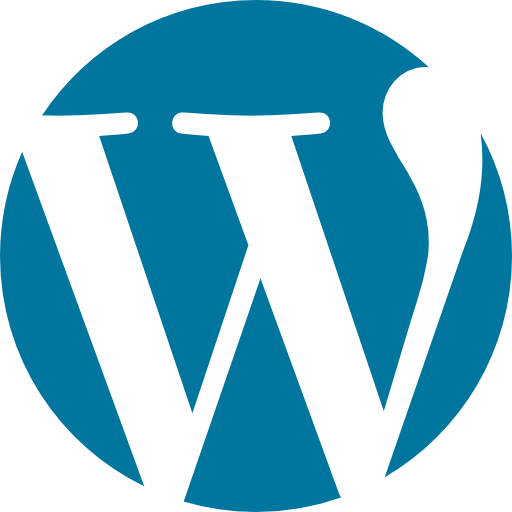
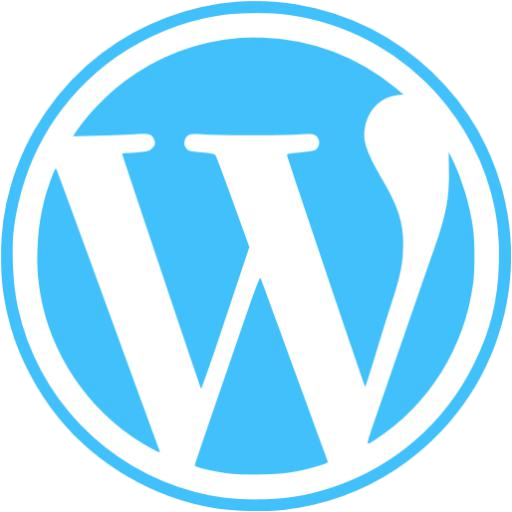
Feito a parte projetos, iniciado o link wordpress

diff --git a/index.html b/index.html
@@ -228,13 +228,20 @@
 <section class="fourth-section">
     <div class="position-article">
         <article>
-            <div>
-                <h3 class="white-font">Projetos</h3>
-                <h4 class="white-font">Analise os meus projetos no GitHub!</h4>
-                <p class="white-font">Acesse os meus repositórios armazenados na nuvem e veja os projetos mais recentes.</p>
+            <div class="white-font">
+                <h3>Projetos</h3>
+                <h4>Analise os meus projetos no GitHub!</h4>
+                <p class="container">Acesse os meus repositórios armazenados na nuvem e veja os projetos mais recentes.</p>
             </div>
             <div class="position-personal">
               <a href="https://github.com/iranmuniz" target="_blank"><img class="github-project" src="../curriculum/assets/img/github.png" alt="GitHub Iran Muniz"></a>
+            </div>
+            <div class="content-project">
+                <h4>Também utilizo WordPress!</h4>
+                <p>Conheça o blog Web Padawan, feito para iniciantes em programação.</p>
+            </div>
+            <div class="position-personal">
+                <a href="http://webpadawan.home.blog" target="_blank"><img class="wordpress-project" src="../curriculum/assets/img/wordpress.png" alt="GitHub Iran Muniz"></a>
             </div>
         </article>
     </div>

diff --git a/assets/css/style.css b/assets/css/style.css
@@ -197,11 +197,34 @@ body {
 .fourth-section {
     background-color: rebeccapurple;
     padding: 150px 0px;
-    border-radius: 0px 600px 0 0;
+    border-radius: 0px 600px 600px 0;
+}
+
+.content-project {
+    color: white;
+    margin: 50px 0px 0px;
 }
 
 .github-project {
     height: 200px;
+}
+
+.github-project:hover {
+    -moz-transform: scale(1.1);
+    -webkit-transform: scale(0.1);
+    transform: scale(0.9);
+    transition: 1s;
+}
+
+.wordpress-project {
+    height: 200px;
+}
+
+.wordpress-project:hover {
+    -moz-transform: scale(1.1);
+    -webkit-transform: scale(0.1);
+    transform: scale(0.9);
+    transition: 1s;
 }
 
 .img-construction {
@@ -446,6 +469,10 @@ p {
     .content-letters {
         margin: 0px 195px;
         padding: 0px 0px 90px;
+    }
+
+    .fourth-section {
+        border-radius: 0px 300px 300px 0; 
     }
 
     .content-info {
